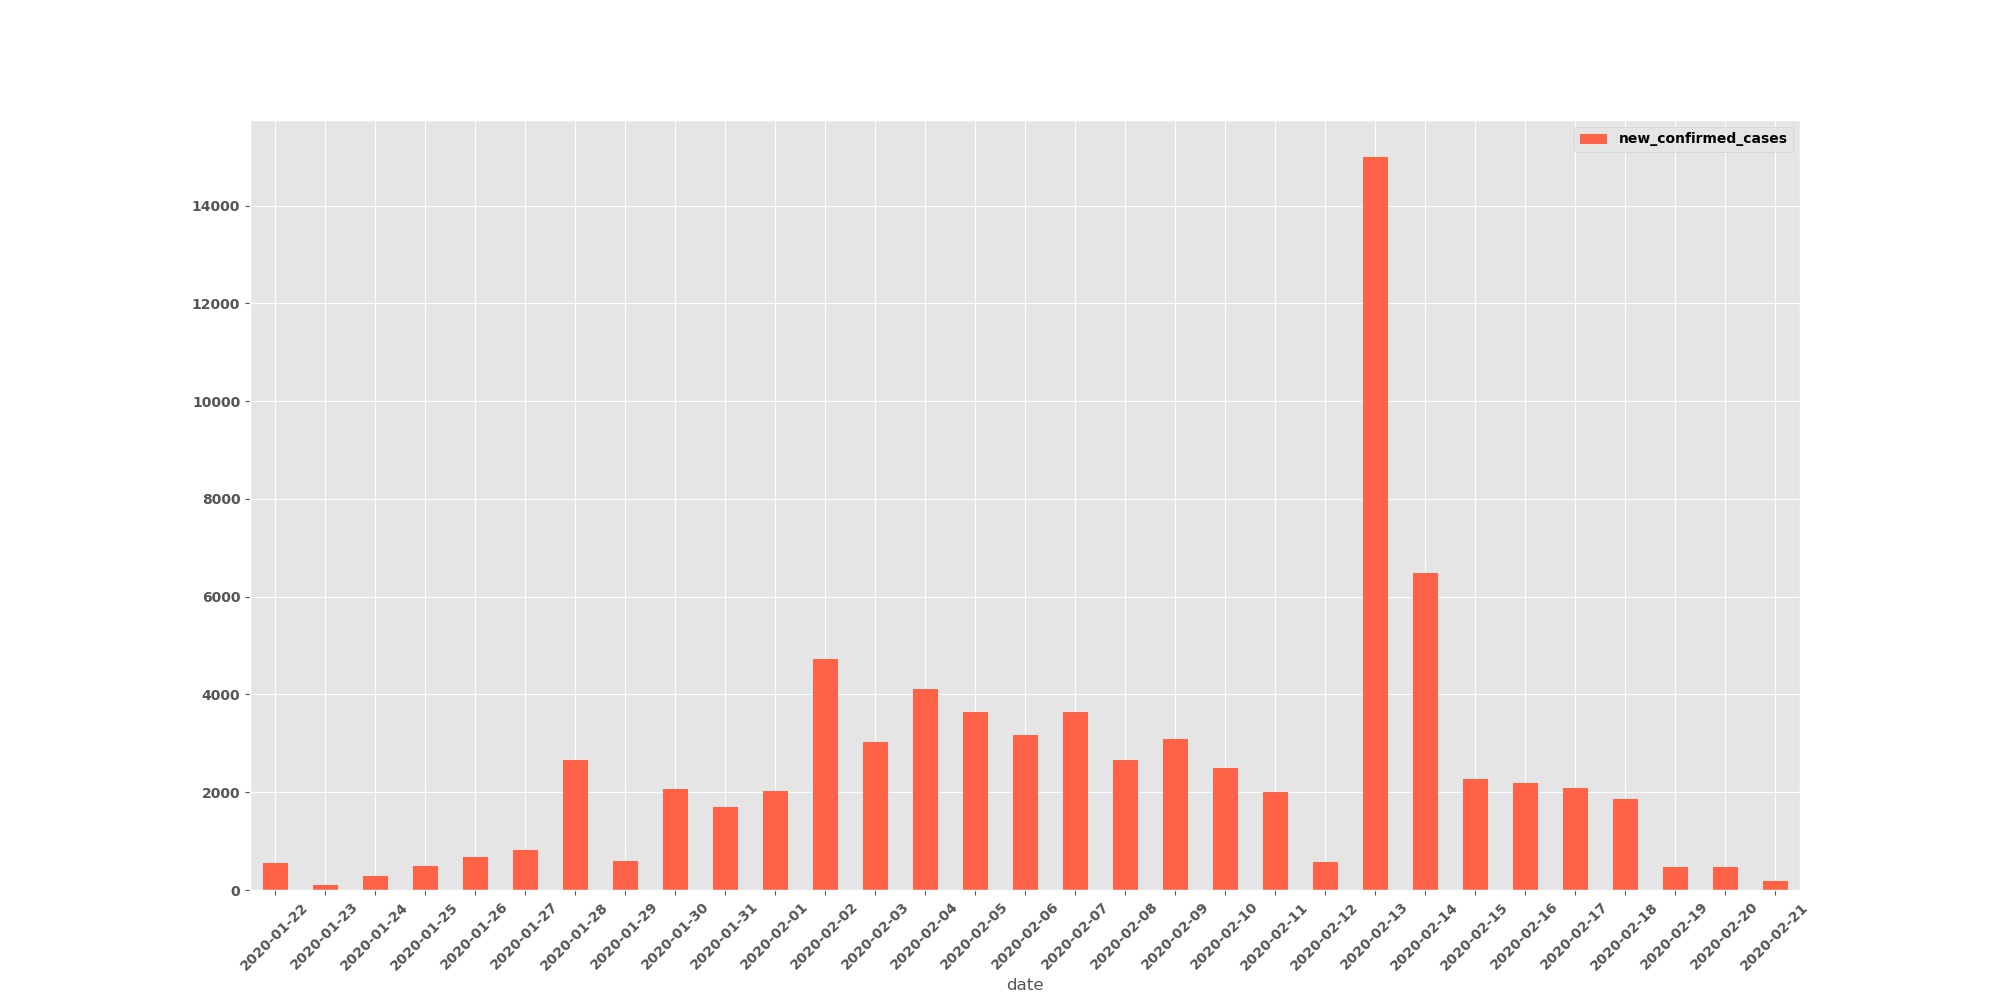
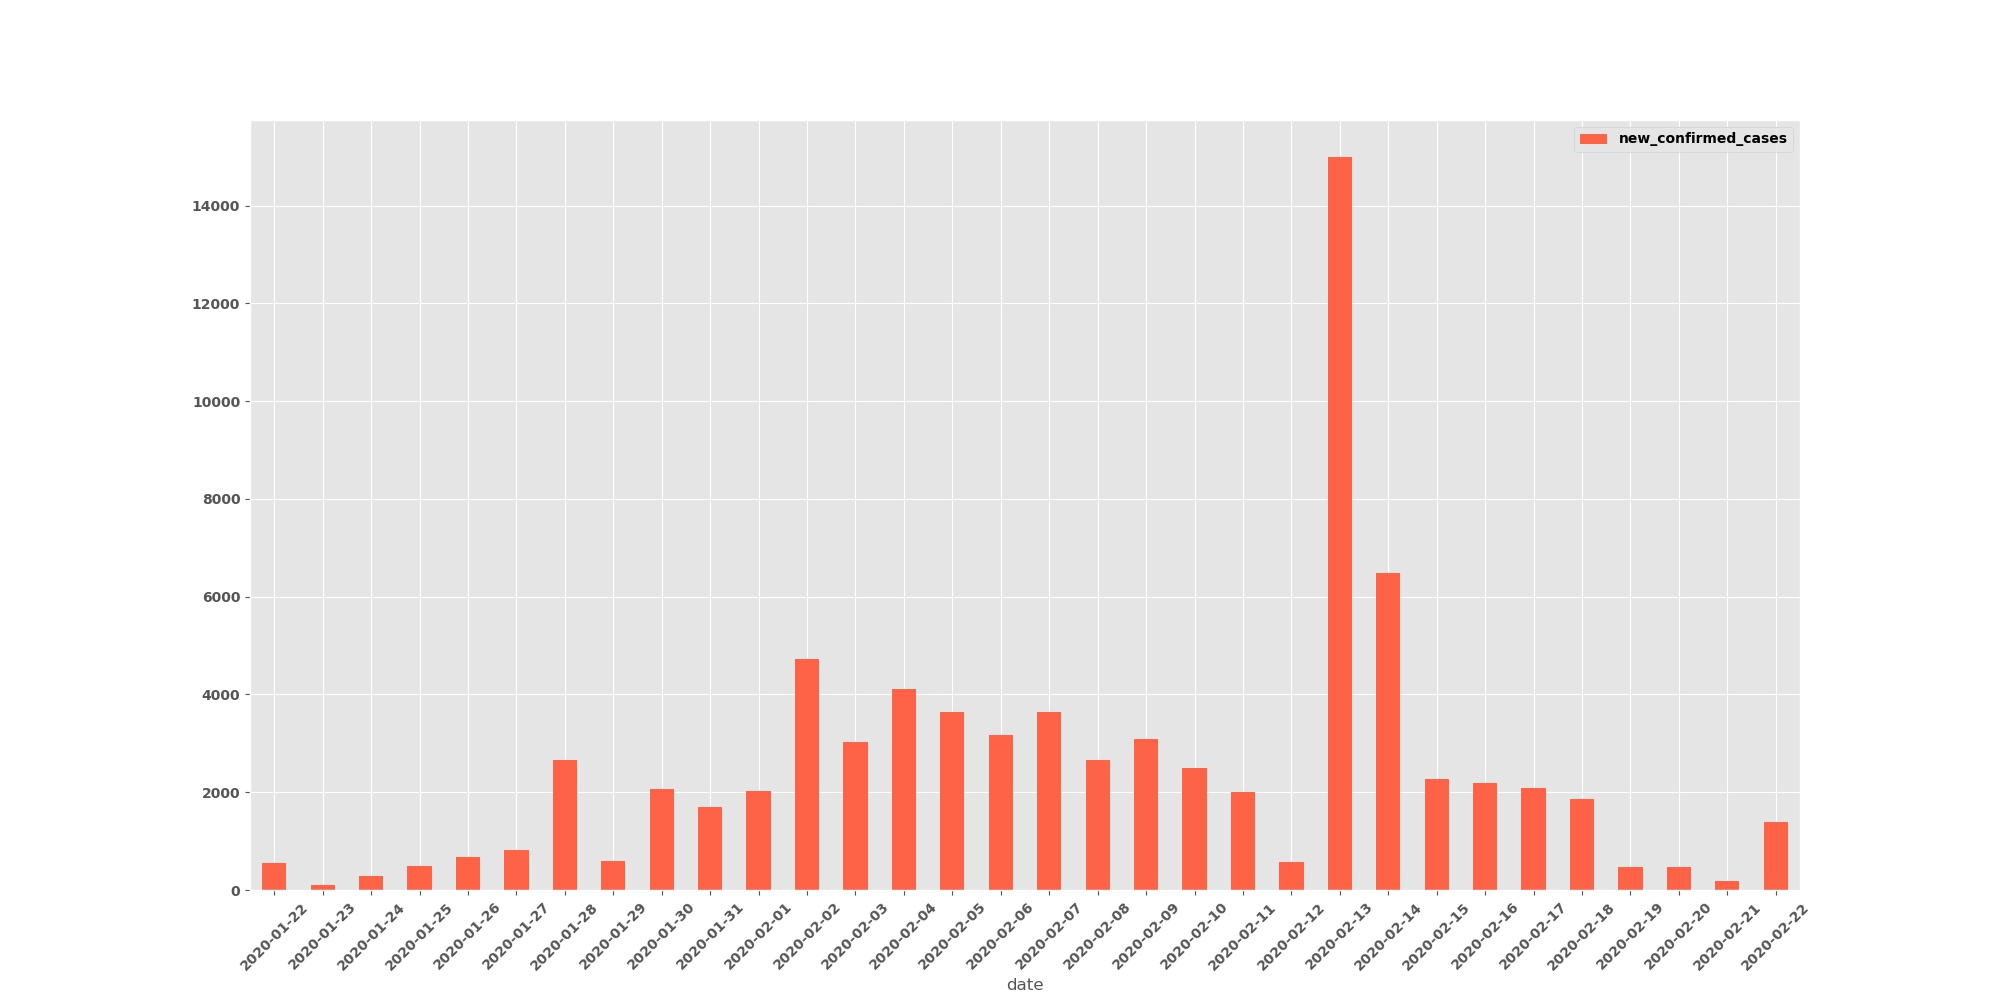
ADD - added report for 23rd

Changed region(s): [[0.155, 0.155, 0.899, 0.992]]

diff --git a/README.md b/README.md
@@ -32,7 +32,7 @@ This plots will be updated daily to visualize stats 3 attributes:
 - ```deaths```
 - ```recoveries```
 
-Last updated: `2020-02-22`
+Last updated: `2020-02-23`
 
 
 ##### Trend Line
